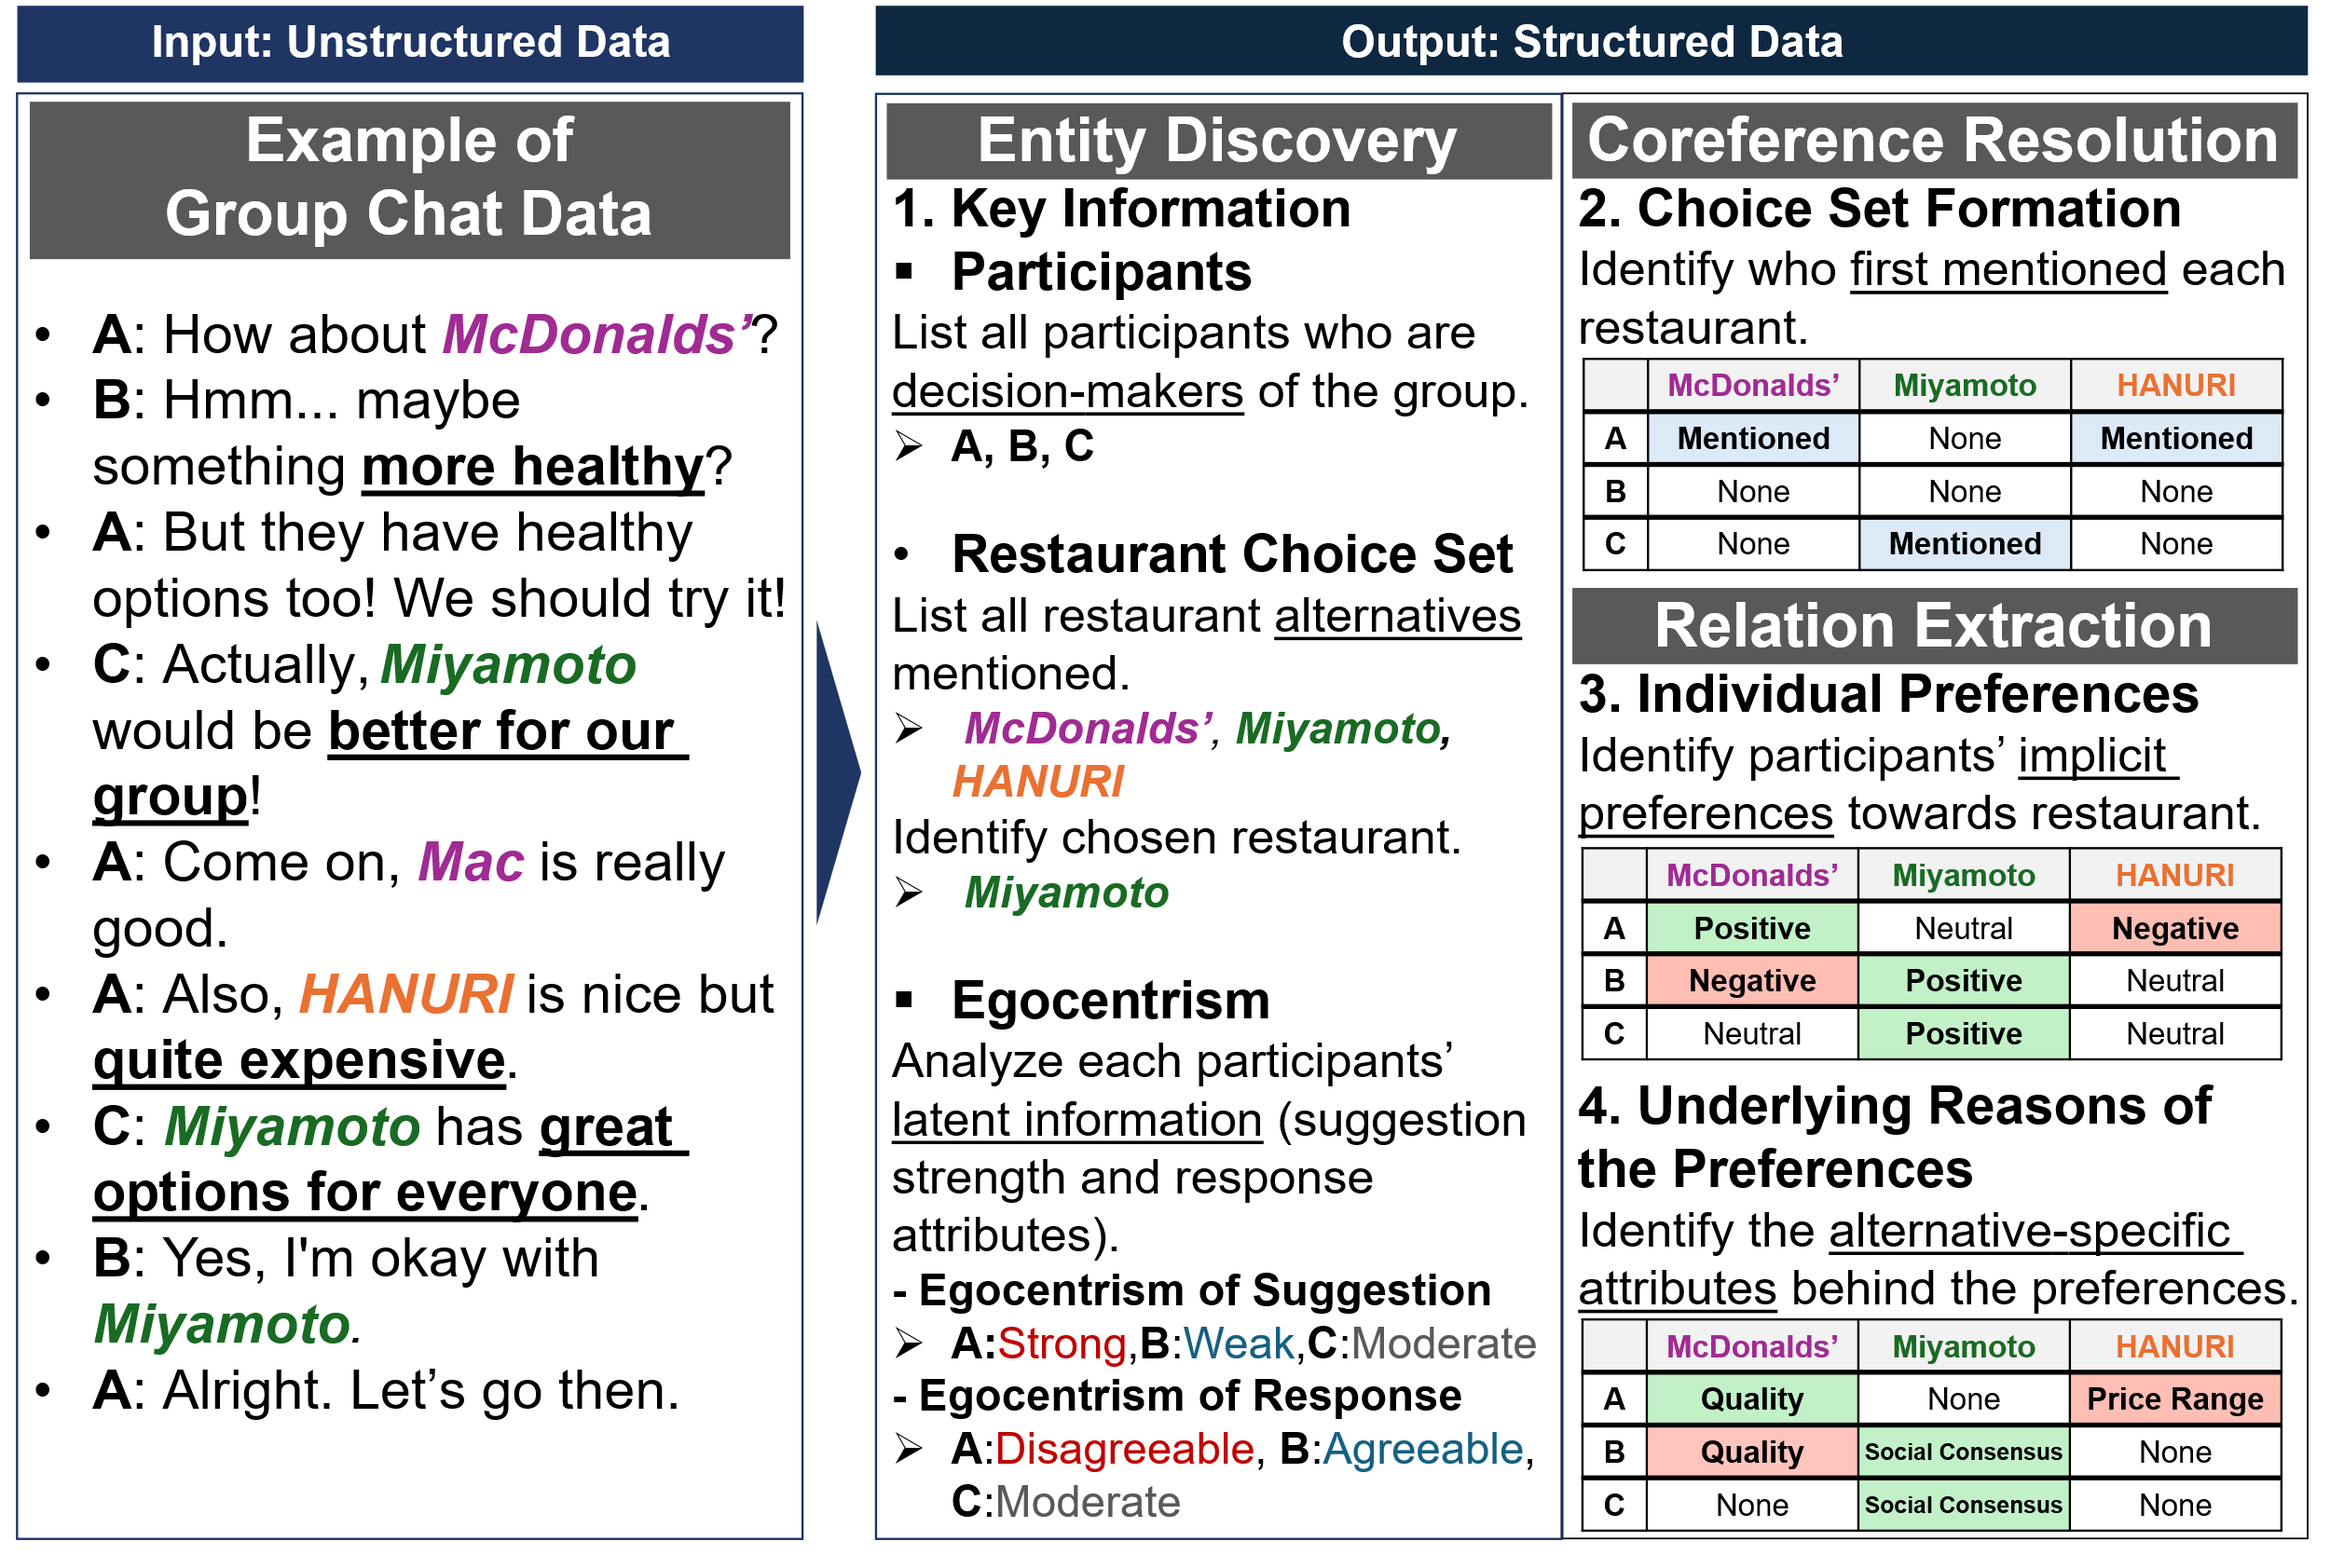
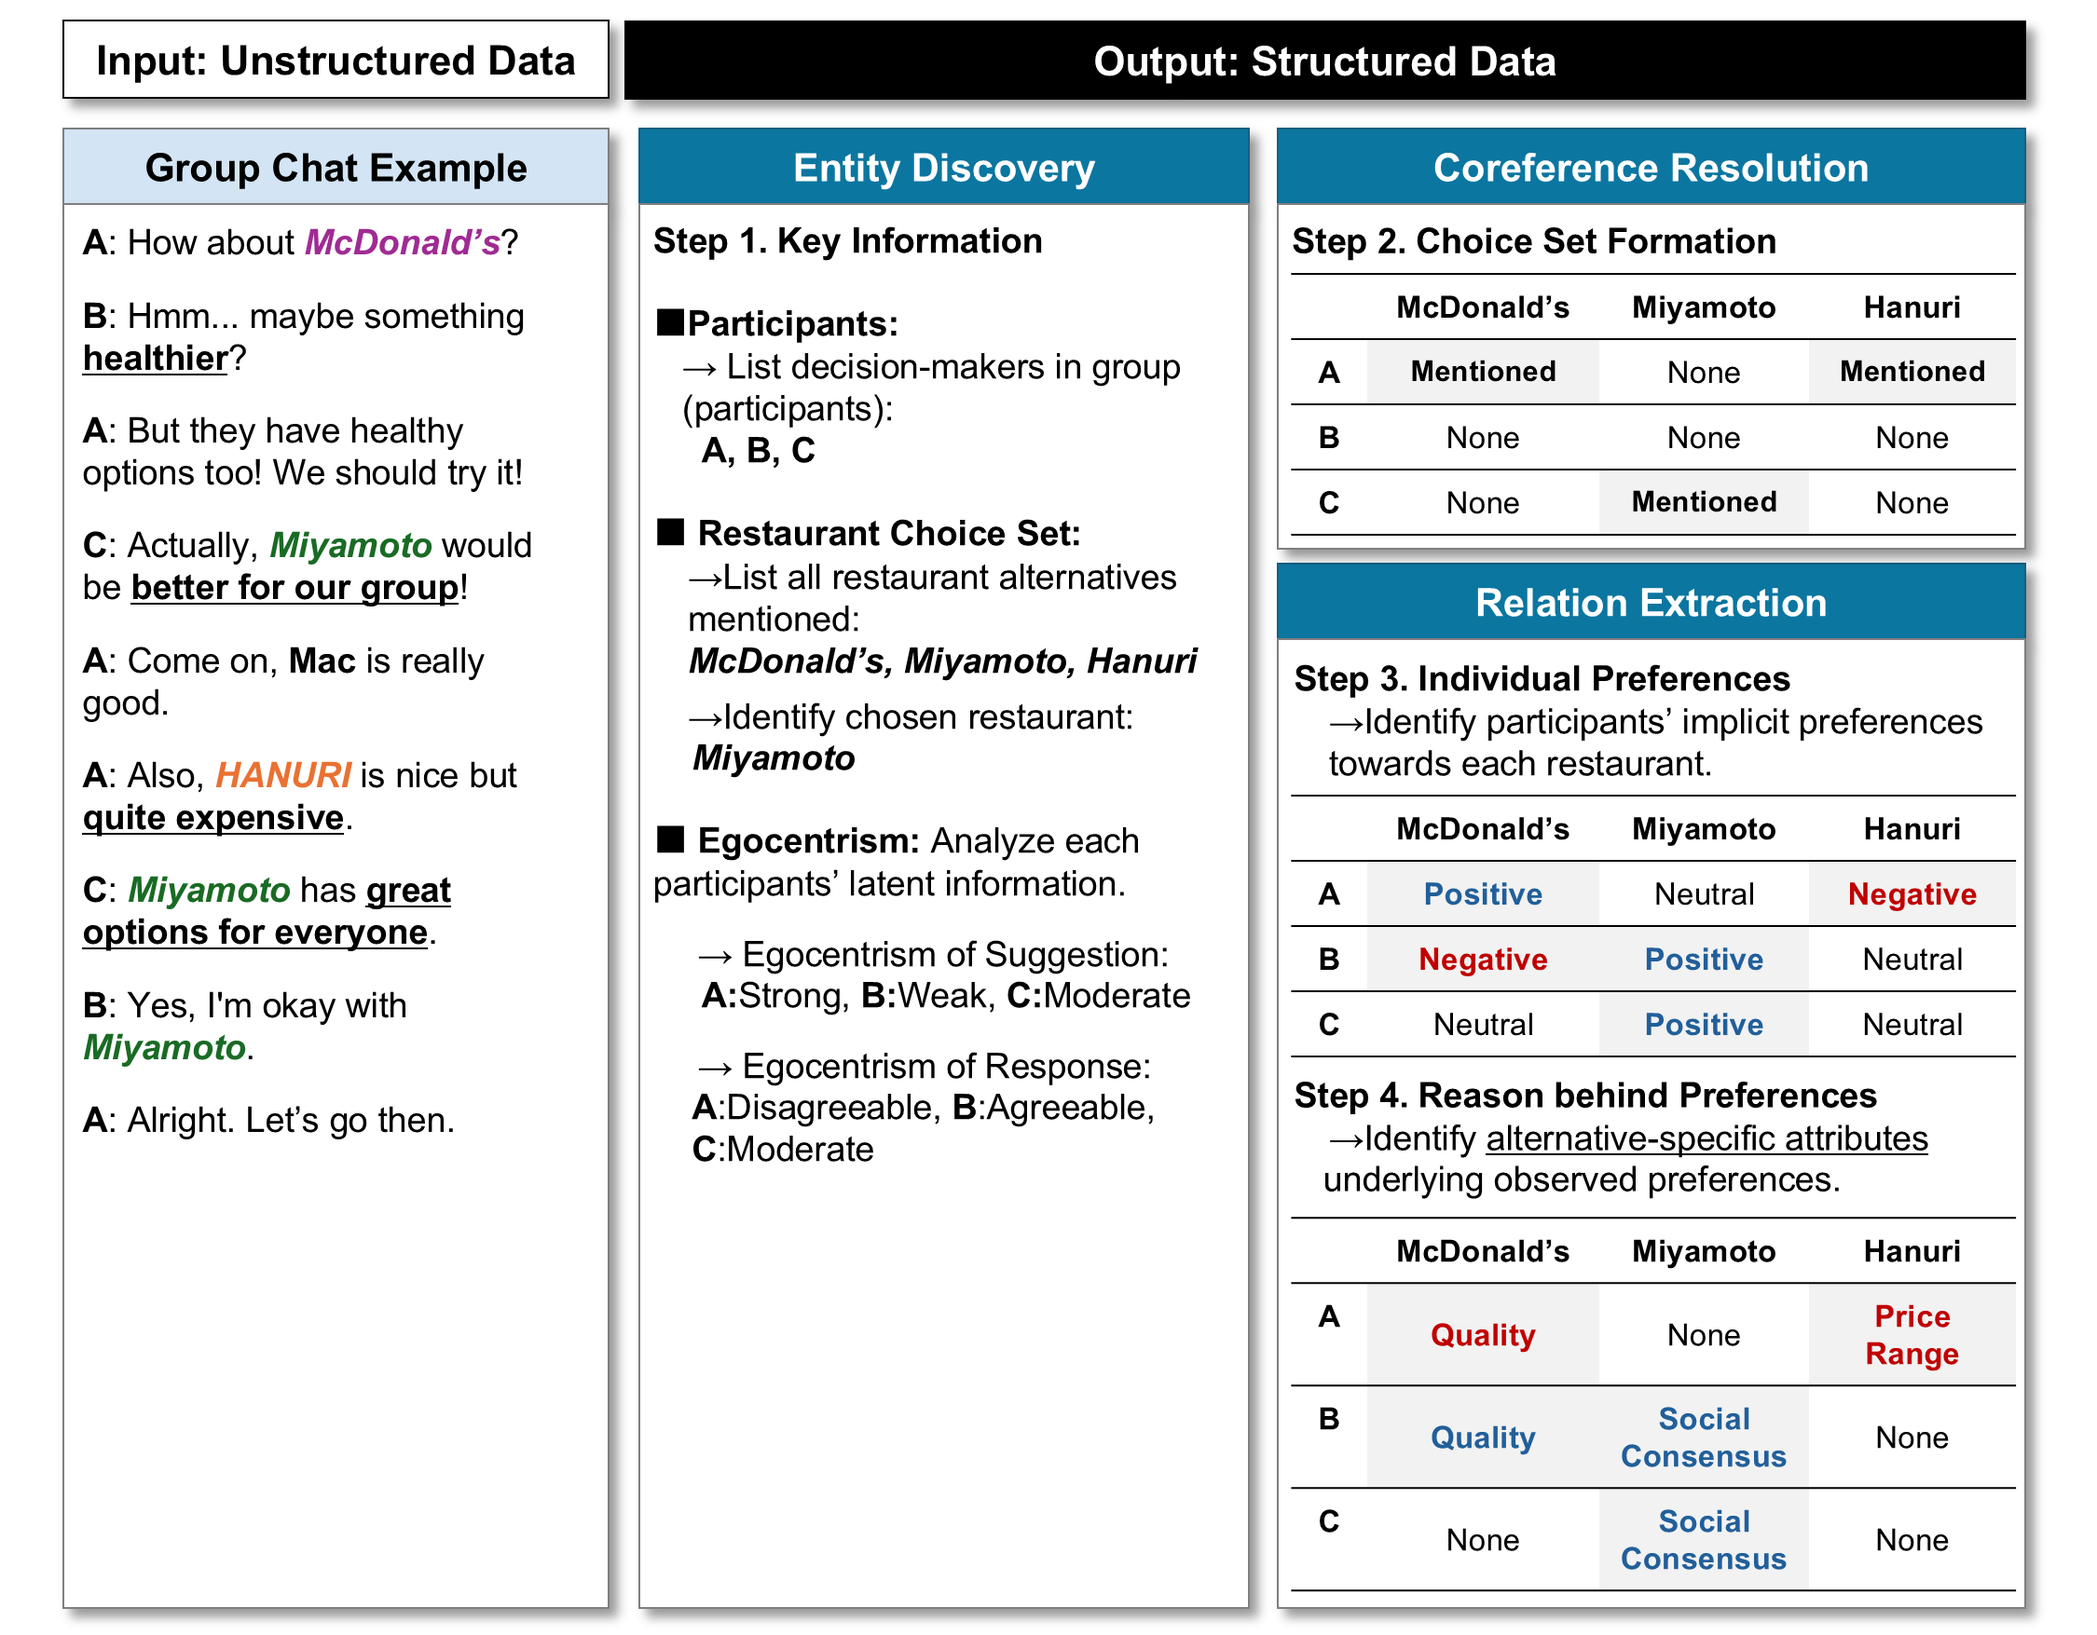
Update to published article (Travel Behaviour and Society 46, 101374)
- Citation: replace arXiv preprint with the journal reference (2027, vol. 46, 101374,
  doi:10.1016/j.tbs.2026.101374); add published banner to the README header
- Figures: adopt the published redesign of Figure 1 (knowledge-acquisition framework)
  and add the published Figures 5-6 (single/mixed-type chat, same-genre error examples)
- gitignore: keep publisher PDFs and figure source files (tif/pptx) local-only

diff --git a/README.md b/README.md
@@ -1,5 +1,9 @@
 # Interpreting Group Decision-Making Conversations with LLMs
 
+> 📄 **Published:** Lim, S.-Y., Sato, K., Takami, K., Parady, G., Kim, E.-J. (2027),
+> *Travel Behaviour and Society*, 46, 101374 —
+> <https://doi.org/10.1016/j.tbs.2026.101374>
+
 Code, data, and evaluation results for a **four-step prompting framework** that
 uses large language models (GPT-4o and GPT-5) to convert unstructured group-chat
 dialogues into structured tables of decision-making factors. The case study is
@@ -207,24 +211,26 @@ format, the gold-annotation schema, and the Step 4 factor codes.
 
 If you use this code or data, please cite:
 
-> Lim, S.Y., Sato, K., Takami, K., Parady, G., Kim, E.J.\* (2026). Can Large Language Models
-> Interpret Unstructured Chat Data on Dynamic Group Decision-Making Processes? Evidence on Joint
-> Destination Choice. *arXiv preprint* arXiv:2601.05582.
-> <https://arxiv.org/abs/2601.05582> — currently under revision in *Travel Behaviour and Society*.
+> Lim, S.-Y., Sato, K., Takami, K., Parady, G., Kim, E.-J. (2027). Can large language models
+> interpret unstructured chat data on dynamic group decision-making processes? Evidence on joint
+> destination choice. *Travel Behaviour and Society*, 46, 101374.
+> <https://doi.org/10.1016/j.tbs.2026.101374>
 
 ```bibtex
-@article{lim2026llmgroupdecision,
-  title   = {Can Large Language Models Interpret Unstructured Chat Data on Dynamic
-             Group Decision-Making Processes? Evidence on Joint Destination Choice},
-  author  = {Lim, S.Y. and Sato, K. and Takami, K. and Parady, G. and Kim, E.J.},
-  journal = {arXiv preprint arXiv:2601.05582},
-  year    = {2026},
-  url     = {https://arxiv.org/abs/2601.05582},
-  note    = {Under revision in Travel Behaviour and Society}
+@article{lim2027llmgroupdecision,
+  title   = {Can large language models interpret unstructured chat data on dynamic
+             group decision-making processes? Evidence on joint destination choice},
+  author  = {Lim, Sung-Yoo and Sato, Koki and Takami, Kiyoshi and Parady, Giancarlos
+             and Kim, Eui-Jin},
+  journal = {Travel Behaviour and Society},
+  volume  = {46},
+  pages   = {101374},
+  year    = {2027},
+  issn    = {2214-367X},
+  doi     = {10.1016/j.tbs.2026.101374},
+  url     = {https://doi.org/10.1016/j.tbs.2026.101374}
 }
 ```
-
-*(This section will be updated with the journal citation upon publication.)*
 
 If you use the conversation data, please also cite the data-collection
 methodology:
